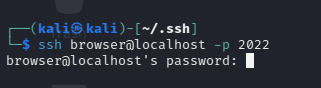
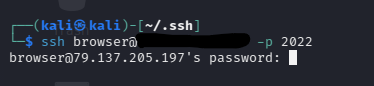
Readme done

Changed region(s): [[0.0312, 0.2093, 0.8411, 0.5814], [0.0, 0.5814, 0.81, 0.7907], [0.0312, 0.3721, 0.0623, 0.3953]]

diff --git a/web/templates/home.html b/web/templates/home.html
@@ -4,14 +4,14 @@
     <meta charset="UTF-8">
     <meta http-equiv="X-UA-Compatible" content="IE=edge">
     <meta name="viewport" content="width=device-width, initial-scale=1.0">
-    <title>Задание</title>
+    <title>Старые трюки</title>
     <link href="https://cdn.jsdelivr.net/npm/bootstrap@5.3.0-alpha1/dist/css/bootstrap.min.css" rel="stylesheet" integrity="sha384-GLhlTQ8iRABdZLl6O3oVMWSktQOp6b7In1Zl3/Jr59b6EGGoI1aFkw7cmDA6j6gD" crossorigin="anonymous">
 </head>
 <body>
     
 <main class="container">
   <div class="bg-light p-5 rounded mt-3">
-    <h1>Главная страница</h1>
+    <h1>Домашняя страница</h1>
     <a class="btn btn-lg btn-primary" href="https://google.ru" role="button">Поискать флаг</a>
     <a class="btn btn-lg btn-success" href="/flag" role="button">Получить флаг</a>
   </div>

diff --git a/README.md b/README.md
@@ -1,4 +1,59 @@
 # mctf-old-tricks
+## Инструкция по деплою
+1. После клонирования репозитория вписать в скрипт [startup.sh](./app/startup.sh) домен или IP адрес сервера, чтобы до контентер ходил именно "в интернет" а не на адрес докера, иначе задание будет нерешаемо
+2. В качестве описания использовать раздел ниже (заменить IP как в пункте 1), а также выдать участникам [файл](./key)   RSA ключа.
+3. Заупстить docker-compose файлик. Веб страница на 8014 порту, ssh на 2022
+
+## Описание 
+Давным давно для выхода в интернет использовались консольные браузеры. Уверен даже с ним у вас не составит труда найти флаг. Не забудь приложенный файл! 
+```
+ssh browser@<ip> -p 2022
+```
+## Writeup
+В описнии намеренно не указано что приложенный файл является RSA ключом. Без него на хост на хост зайти не поулчится 
+
+![image](./images/1.png)
+
+Для подключения указываем также ключ вот такой командой.
+
+![image](./images/2.png)
+
+После входа на машину у нас вызывается браузер на веб страничку с двумя опциями. 
+- Поискать флаг
+- Получить флаг 
+
+![image](./images/3.png)
+
+Нажимаем кнопку получить флаг и видим только надпись "Вот твой флаг".
+
+![image](./images/4.png)
+
+Вторая кнопка просто ведёт в гугл.
+
+Попробуем зайти на домен с обычного броаузера 
+
+![image](./images/5.png)
+
+![image](./images/6.png)
+Но флаг нам не отдают, при этом надпись меняется. Всё отличие между двумя браузерами - это User-Agent. Воспользуемся второй кнопкой и сходим с этого браузера в гугл чтобы узнать свой User-Agent (Например это можно сделать на [ifconfig.me](https://ifconfig.me)).
+
+![image](./images/7.png)
+Возьмём User-Agent Links
+```
+Links (2.28; Linux 6.ø.ø-ka1i3-amd64 x86_64; GNU C 12.2; text)
+```
+И сделаем запрос с ним уже с полноценного браузера. Но на этот раз воспользуемся Burp Suite, чтобы на лету изменить отправляемый запрос. Это можно сделать и с обычного браузера.
+Кнопкой intecept перехватываем запрос и меняем User-Agent. 
+
+![image](./images/8.png)
+
+Потом нажимаем Forward. Флаг вылетает в Alert. Потому что Links не умеет их выдавать :)
+![image](./images/9.png)
+
+## Flag 
+```
+Br@US3rS_ar3_n0T-3n0uGH
+```
 ## TODO 
 - ~~Idea~~
 - ~~Ssh-links container~~
